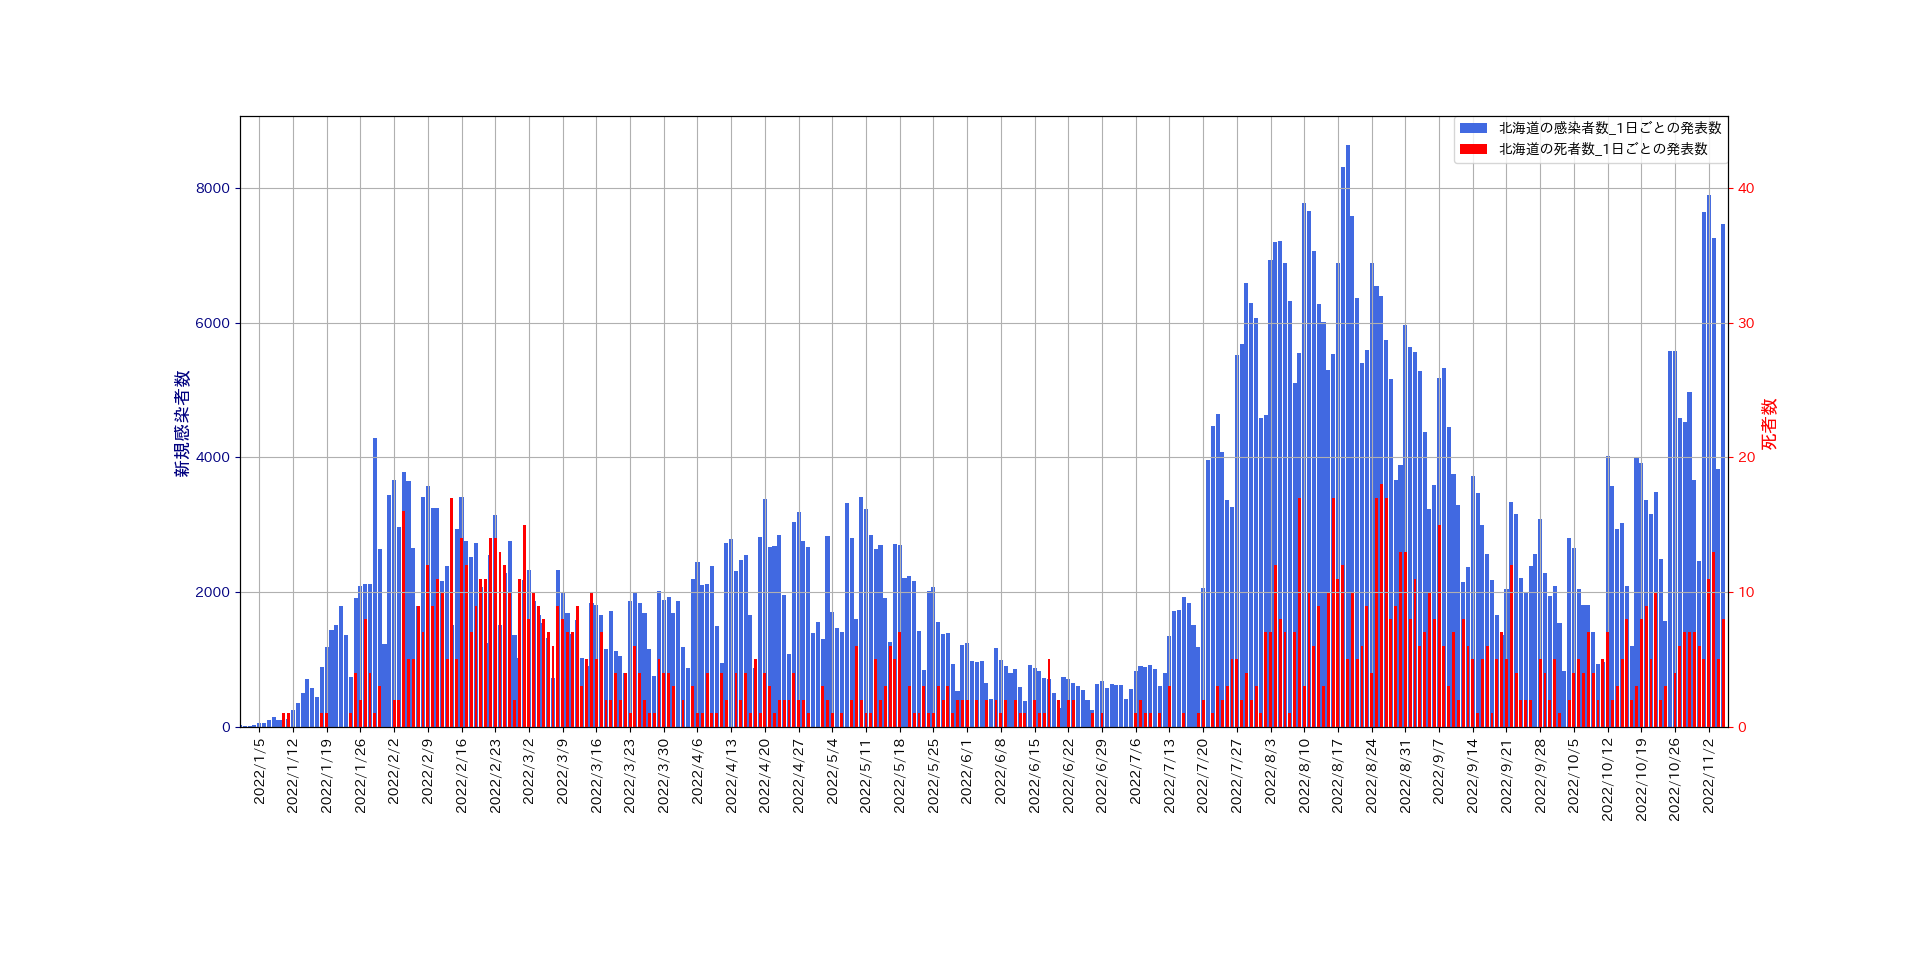
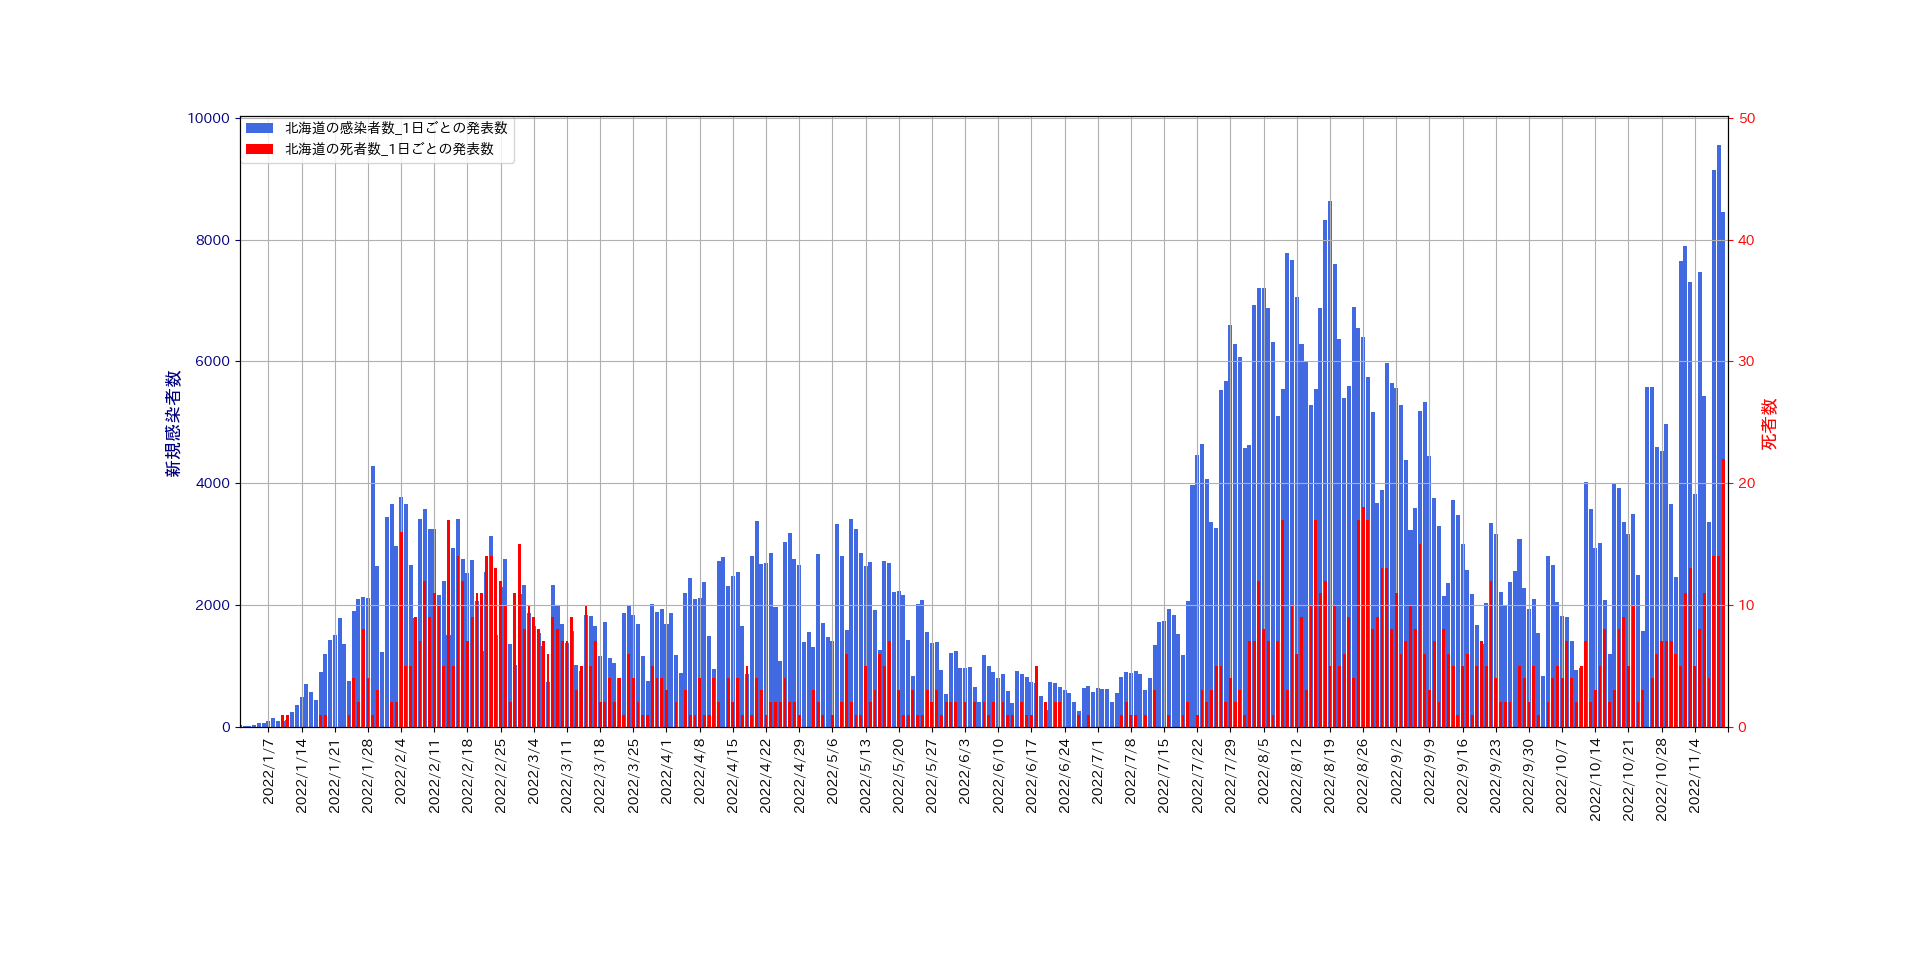
change

diff --git a/Miscellaneous/DataVis/Vis4/DataVis4.html b/Miscellaneous/DataVis/Vis4/DataVis4.html
@@ -137,6 +137,10 @@ code {
 
 <div class="parent">
  <div class="child2">
+プログラムについては、
+  <a href="covid19_daily_I&D_Hokkaido.py">
+  ここ</a>
+をご覧ください。
 既に第8波に突入しているように見えます。
 <br><br>
 　青森県の場合には、
@@ -146,7 +150,10 @@ code {
 <img src="Aomori.png" alt="Hokkaido" width="1200" height="540"> 
 
 <div class="parent">
- <div class="child2">
+ <div class="child2">プログラムについては、
+  <a href="covid19_daily_I&D_Aomori.py">
+  ここ</a>
+をご覧ください。
 この感染状況は、北海道と東京の中間に位置しているように思えます。
 
  </div>

diff --git a/Miscellaneous/DataVis/Vis4/covid19_daily_I&D_Hokkaido.py b/Miscellaneous/DataVis/Vis4/covid19_daily_I&D_Hokkaido.py
@@ -1,0 +1,97 @@
+import numpy as np
+import pandas as pd
+from pandas import Series,DataFrame
+import matplotlib.pyplot as plt
+import matplotlib.dates as mdates
+import csv
+from scipy.interpolate import interp1d
+import locale
+import japanize_matplotlib
+import pathlib
+
+
+encoding = locale.getpreferredencoding()
+
+plt.rcParams['figure.subplot.bottom'] = 0.25
+
+fig = plt.figure()
+ax1 = fig.add_subplot(1,1,1)
+ax2 = ax1.twinx()
+
+
+covid = pd.read_csv('newly_confirmed_cases_daily.csv')
+df = DataFrame(covid)
+
+df_s=df.set_index("Date")["2020/5/9":]
+df_r = df_s.reset_index()
+
+# num = df_rの行数(rows)
+num = len(df_r)
+
+c0 = df_r.loc[:,"Date"]
+c1 = df_r.loc[:,"Hokkaido"]
+
+df0 = pd.DataFrame(data=c0)
+
+for i in range(0, num):
+    df0.loc[i,"Hokkaido"] = c1[i]
+
+
+#------------------------------------------
+
+covid2 = pd.read_csv('deaths_cumulative_daily.csv')
+df2 = DataFrame(covid2)
+
+# num = df_rの行数(rows)
+n = len(df2)
+
+c2 = df2.loc[:,"Hokkaido"]
+
+
+
+for i in range(1, n):
+    df0.loc[i,"死者数"] = c2[i]-c2[i-1]
+
+df_s=df0.set_index("Date")["2022/1/1":]
+df_r = df_s.reset_index()
+df0 = DataFrame(df_r)
+
+# num = df_rの行数(rows)
+num = len(df_r)
+
+df0.to_csv('newly_confirmed_cases_daily_Aomori.csv', encoding="ANSI", index=False)
+
+ax1.bar(df0["Date"],df0["Hokkaido"], label="北海道の感染者数_1日ごとの発表数",color='royalblue',width=0.85,align="center")
+ax1.xaxis.set_major_locator(mdates.DayLocator(interval=50))
+
+ax1.tick_params(axis='x', colors ="black", rotation = 90)
+ax1.tick_params(axis='y', colors ="navy")
+
+print(ax1.get_ylim())
+y1_max= ax1.get_ylim()[1]
+
+#---------------------------------------
+
+
+ax2.bar(df0["Date"],df0["死者数"], label="北海道の死者数_1日ごとの発表数", color='red',width=0.6,align="center")
+ax2.xaxis.set_major_locator(mdates.DayLocator(interval=7))
+
+ax2.tick_params(axis='x', colors ="black", rotation = 90)
+ax2.tick_params(axis='y', colors ="red")
+
+ax1.set_ylabel("新規感染者数", fontname="MS Gothic", fontsize=13, color="navy")
+ax2.set_ylabel("死者数", fontname="MS Gothic", fontsize=13, color="red")
+
+
+ax2.set_ylim(0, y1_max/200)
+
+
+plt.xlim(0, num)
+
+handler1, label1 = ax1.get_legend_handles_labels()
+handler2, label2 = ax2.get_legend_handles_labels()
+ax1.legend(handler1+handler2,label1+label2,borderaxespad=0)
+ax1.grid(axis='x')
+
+plt.grid()
+plt.show()

diff --git a/Miscellaneous/DataVis/Vis4/covid19_daily_I&D_Aomori.py b/Miscellaneous/DataVis/Vis4/covid19_daily_I&D_Aomori.py
@@ -1,0 +1,97 @@
+import numpy as np
+import pandas as pd
+from pandas import Series,DataFrame
+import matplotlib.pyplot as plt
+import matplotlib.dates as mdates
+import csv
+from scipy.interpolate import interp1d
+import locale
+import japanize_matplotlib
+import pathlib
+
+
+encoding = locale.getpreferredencoding()
+
+plt.rcParams['figure.subplot.bottom'] = 0.25
+
+fig = plt.figure()
+ax1 = fig.add_subplot(1,1,1)
+ax2 = ax1.twinx()
+
+
+covid = pd.read_csv('newly_confirmed_cases_daily.csv')
+df = DataFrame(covid)
+
+df_s=df.set_index("Date")["2020/5/9":]
+df_r = df_s.reset_index()
+
+# num = df_rの行数(rows)
+num = len(df_r)
+
+c0 = df_r.loc[:,"Date"]
+c1 = df_r.loc[:,"Aomori"]
+
+df0 = pd.DataFrame(data=c0)
+
+for i in range(0, num):
+    df0.loc[i,"Aomori"] = c1[i]
+
+
+#------------------------------------------
+
+covid2 = pd.read_csv('deaths_cumulative_daily.csv')
+df2 = DataFrame(covid2)
+
+# num = df_rの行数(rows)
+n = len(df2)
+
+c2 = df2.loc[:,"Aomori"]
+
+
+
+for i in range(1, n):
+    df0.loc[i,"死者数"] = c2[i]-c2[i-1]
+
+df_s=df0.set_index("Date")["2022/1/1":]
+df_r = df_s.reset_index()
+df0 = DataFrame(df_r)
+
+# num = df_rの行数(rows)
+num = len(df_r)
+
+df0.to_csv('newly_confirmed_cases_daily_Aomori.csv', encoding="ANSI", index=False)
+
+ax1.bar(df0["Date"],df0["Aomori"], label="青森県の感染者数_1日ごとの発表数",color='royalblue',width=0.85,align="center")
+ax1.xaxis.set_major_locator(mdates.DayLocator(interval=50))
+
+ax1.tick_params(axis='x', colors ="black", rotation = 90)
+ax1.tick_params(axis='y', colors ="navy")
+
+print(ax1.get_ylim())
+y1_max= ax1.get_ylim()[1]
+
+#---------------------------------------
+
+
+ax2.bar(df0["Date"],df0["死者数"], label="青森県の死者数_1日ごとの発表数", color='red',width=0.6,align="center")
+ax2.xaxis.set_major_locator(mdates.DayLocator(interval=7))
+
+ax2.tick_params(axis='x', colors ="black", rotation = 90)
+ax2.tick_params(axis='y', colors ="red")
+
+ax1.set_ylabel("新規感染者数", fontname="MS Gothic", fontsize=13, color="navy")
+ax2.set_ylabel("死者数", fontname="MS Gothic", fontsize=13, color="red")
+
+
+ax2.set_ylim(0, y1_max/200)
+
+
+plt.xlim(0, num)
+
+handler1, label1 = ax1.get_legend_handles_labels()
+handler2, label2 = ax2.get_legend_handles_labels()
+ax1.legend(handler1+handler2,label1+label2,borderaxespad=0)
+ax1.grid(axis='x')
+
+plt.grid()
+plt.show()
